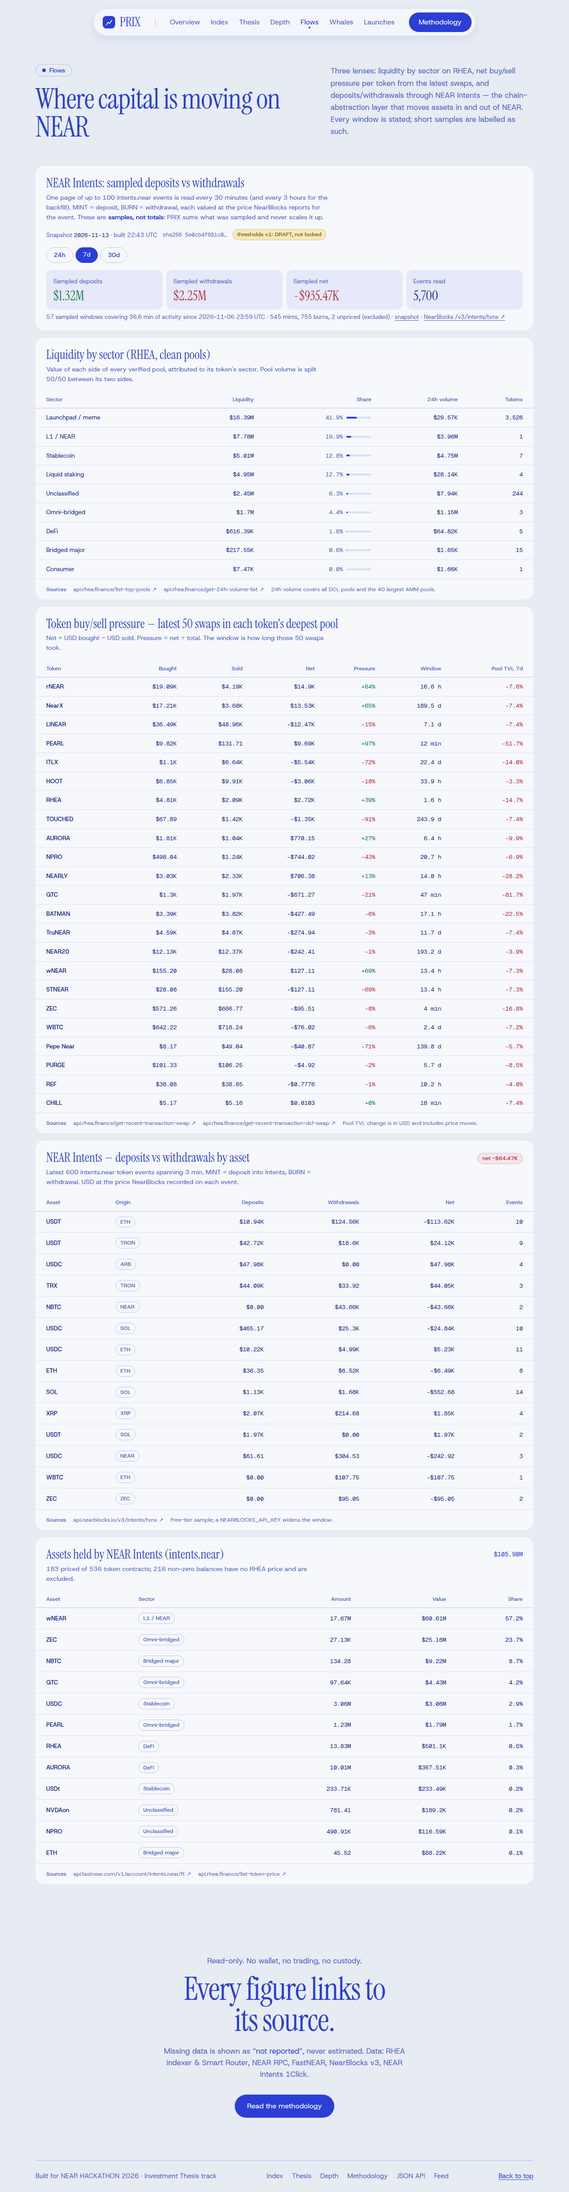
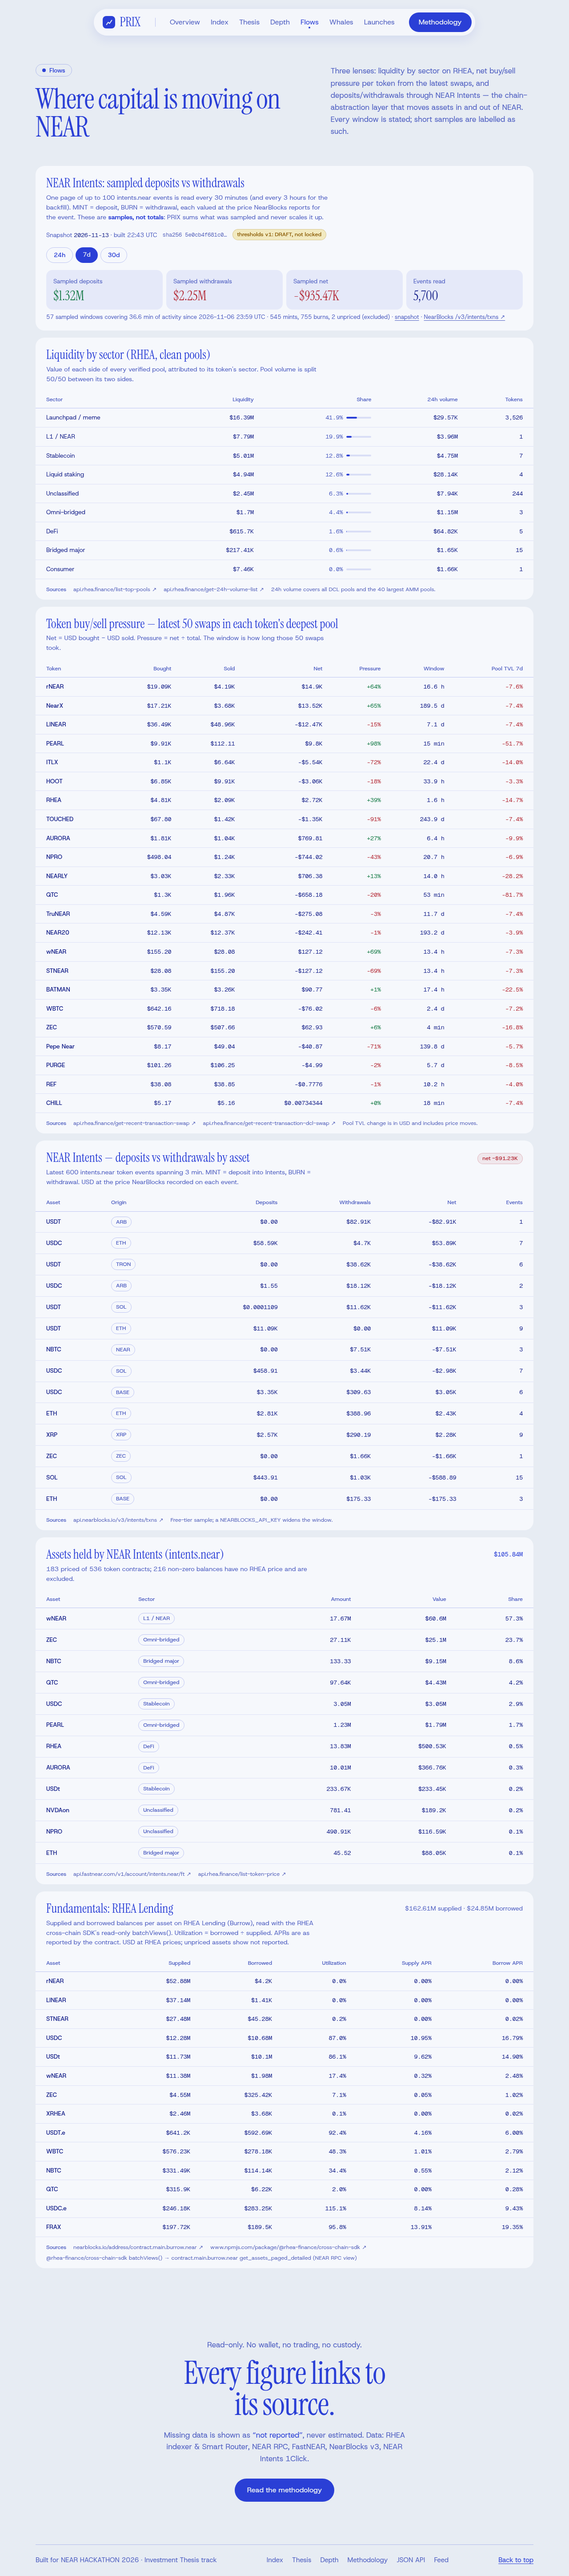
docs: lending in sdk-notes, sanity checks in threshold diff; flows note on day-weighting; refreshed screenshots

diff --git a/app/flows/page.tsx b/app/flows/page.tsx
@@ -242,7 +242,8 @@ function SampledFlows({ s, w, version, locked }: { s: Snapshot; w: W; version: n
             </div>
           ))}
           <p className="col-span-2 text-[13px] text-muted sm:col-span-4">
-            {num(cur.n)} sampled windows covering {cur.minutes < 120 ? `${cur.minutes.toFixed(1)} min` : `${(cur.minutes / 60).toFixed(1)} h`} of activity since {cur.first?.slice(0, 16).replace("T", " ")} UTC · {num(cur.mints)} mints, {num(cur.burns)} burns, {num(cur.unpriced)} unpriced (excluded) ·{" "}
+            {num(cur.n)} sampled windows covering {cur.minutes < 120 ? `${cur.minutes.toFixed(1)} min` : `${(cur.minutes / 60).toFixed(1)} h`} of activity since {cur.first?.slice(0, 16).replace("T", " ")} UTC · {num(cur.mints)} mints, {num(cur.burns)} burns, {num(cur.unpriced)} unpriced (excluded) · plain sum of the samples (H5 uses a day-weighted sum so denser sampling on recent days does not dominate; see{" "}
+            <Link href="/thesis#H5" className="underline underline-offset-4 hover:text-text">H5</Link>) ·{" "}
             <a href={`/api/v1/snapshots/${s.date}`} className="underline underline-offset-4 hover:text-text">snapshot</a> ·{" "}
             <a href="https://api.nearblocks.io/v3/intents/txns?limit=100" target="_blank" rel="noreferrer" className="underline underline-offset-4 hover:text-text">NearBlocks /v3/intents/txns ↗</a>
           </p>

diff --git a/docs/threshold-diff.md b/docs/threshold-diff.md
@@ -22,6 +22,12 @@
 | **Index universe** | min clean liquidity $50k (same) | `min_liquidity_usd: 50000` (same). New: `max_price_impact_10k: 0.10` | No. Tokens below either rule get a **low confidence** badge and drop below every high-confidence token, so they are excluded from the top-ranked view. A token with no measured $10k depth is also low confidence, so it never outranks a token with measured depth. |
 | **Index weights** | depth .30 / activity .25 / distribution .20 / flow .25 | identical | No |
 
+## Results to sanity-check before locking (snapshot 2026-11-13)
+
+* **H4 reads 100% organic.** The 15 largest rejected pools have almost no daily volume in the RHEA data service, and none of the 25 highest-volume clean pools contains a token flagged for round-trip or abnormal turnover today. The rule as written is therefore easy to pass. If wash trading in *clean* pools is the concern, a stricter "flagged" definition is needed, for example a turnover threshold on each pool.
+* **H6 baseline.** The exploit window began 2026-09-29 16:14 UTC, so the 7-day baseline (09-24 to 09-30) includes about 1.3 days of it. Custody at constant prices was rising in that week (from $109M to $122M), so the baseline median ($120.6M) is high relative to day 30 ($101.0M, 84%). Shifting the baseline to 09-22 to 09-28 would change the custody ratio. This is a human decision.
+* **H5 sample.** The backfill holds 249 buckets and 24,900 events over 31 days, but only about 4 hours of activity are actually sampled. The sign of the net flow is meaningful. The size is not.
+
 ## Evidence grades
 
 The YAML grades every claim **B** (indexer/API). PRIX downgrades H3 to **C** when a passing token's

diff --git a/docs/sdk-notes.md b/docs/sdk-notes.md
@@ -9,7 +9,8 @@ signs or deposits, and no `execute*`, `swap*`, `build*`, `submit*`, relayer or M
 |---|---|---|
 | `findPath` | `findPath({ amountIn, tokenIn, tokenOut, slippage })` → GET `smartrouter.rhea.finance/findPath` | The **same endpoint** is called directly by `lib/sources/rhea.ts → findPath` (`pathDeep=3, slippage=0.005`). This is the RHEA Smart Router **V1** in `lib/depth/rhea-router.ts`. |
 | `intentsQuotation` | `({ originAsset, destinationAsset, amount, refundTo, recipient, customRecipientMsg?, isReverse?, dry?, slippageTolerance?, authorization? })` → `IIntentsQuoteResult { quoteStatus: "success" \| "error", quoteSuccessResult?, message?, quoteFeeData? }` | Not used. It proxies through `api.rhea.finance/api/1click/quote` and adds RHEA's own fee. PRIX calls the documented 1Click API directly instead, so a third party is not between PRIX and the quote. |
-| `getAssets`, `getPrices`, `batchViews`, `config_near` | lending (Burrow) views | Reserved for the P1 Fundamentals block (`lib/rhea/lending.ts`, not built yet). |
+| `batchViews` | `batchViews(account_id?) → ILendingData { assets_paged_detailed, config, token_pyth_infos, account_all_positions? }` | **Used** with no account id by `lib/rhea/lending.ts` for the Fundamentals block on /flows: RHEA Lending (Burrow) read-only views, supplied/borrowed per asset (token decimals + `extra_decimals`), APRs as fractions. |
+| `getAssets`, `getPrices` | lending asset/price views | Not used (batchViews already returns them). |
 
 ## `@rhea-finance/cross-chain-aggregation-dex` 2.1.9
 

diff --git a/README.md b/README.md
@@ -30,7 +30,7 @@ pnpm verify        # online: refetch every source, rebuild in memory, diff again
 `pnpm verdicts --snapshot data/snapshots/2026-11-13.json` pins a specific file. `pnpm verify --offline` skips the
 refetch; `--tolerance 0.10` (point-in-time values) and `--history-tolerance 0.01` (days before the snapshot) set the
 allowed drift; `--allow-verdict-drift` reports but does not fail on a changed verdict. Thresholds come from
-`thresholds/v1.yaml` (**DRAFT, not locked**, see `docs/threshold-diff.md`).
+`thresholds/v1.yaml` (**DRAFT, not locked**, see `docs/threshold-diff.md`). A standard-library Python cross-check of the hash and of H2/H3/H6 is in `notebooks/rerun.ipynb`.
 
 ## Try it (judge walkthrough)
 
